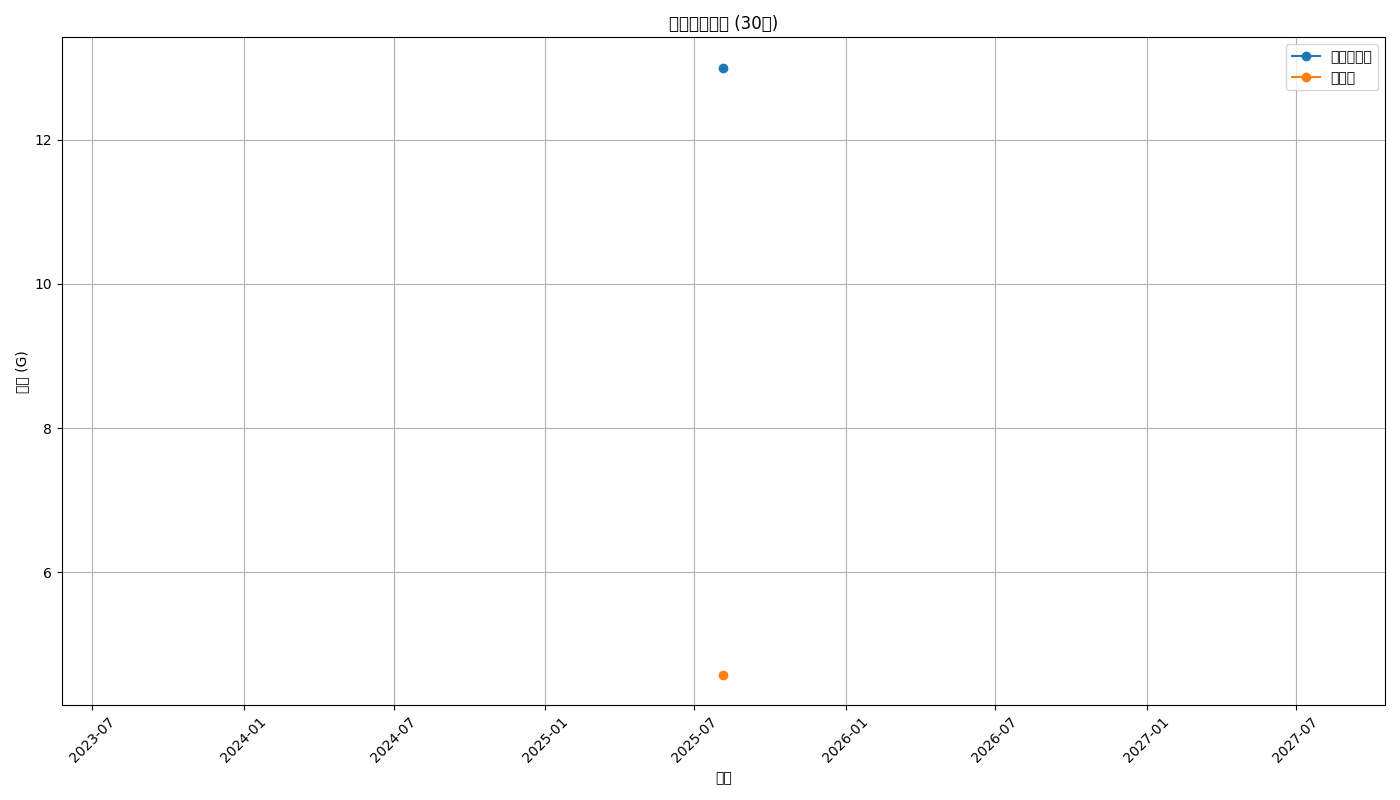
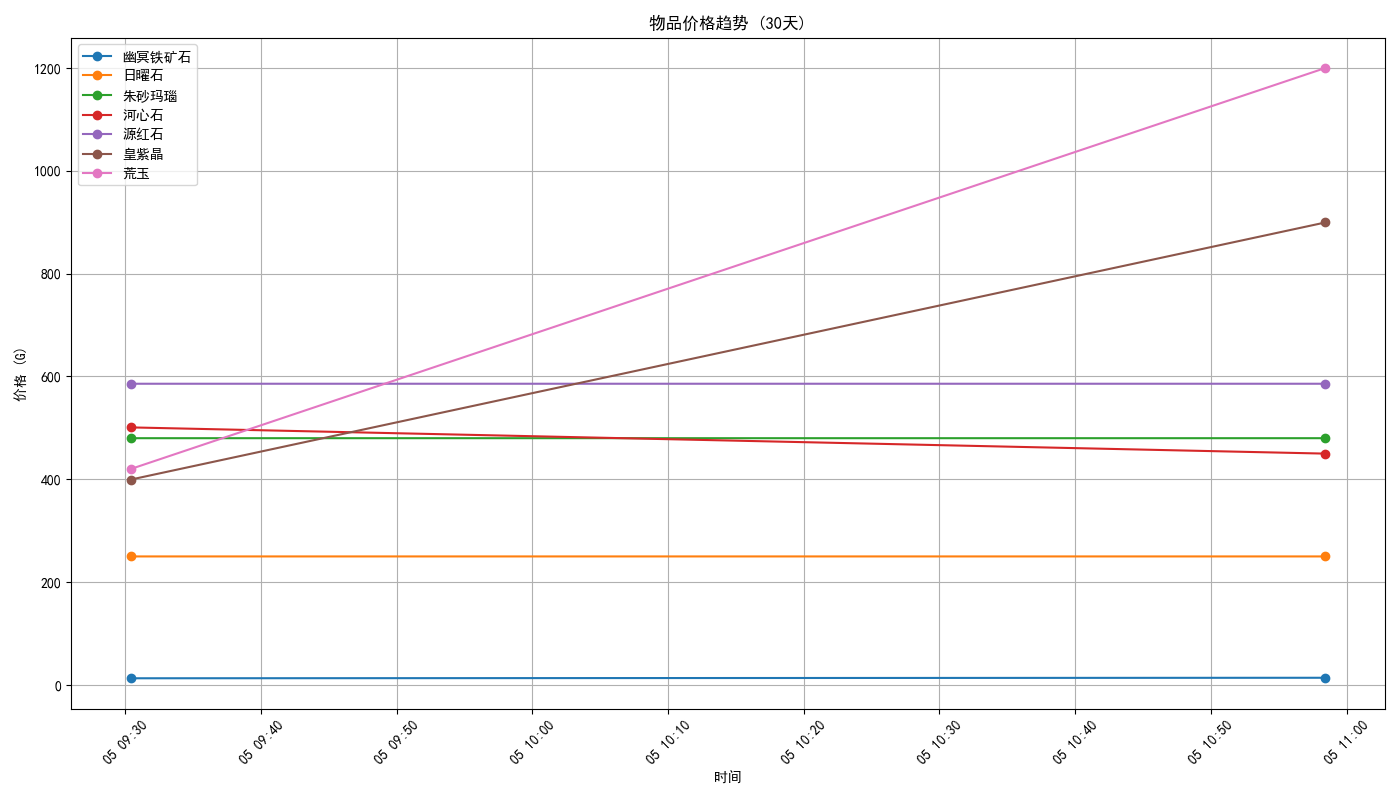
V1.5_20250805 1.修复数据图中文生成异常

diff --git a/chart_generator.py b/chart_generator.py
@@ -1,8 +1,62 @@
 import pandas as pd
+import numpy as np
+import matplotlib as mpl
 import matplotlib.pyplot as plt
+import matplotlib.font_manager as fm
 import os
 from datetime import datetime
-from config import HISTORY_DIR
+from config import HISTORY_DIR, BASE_DIR
+import warnings
+
+# 忽略警告
+warnings.filterwarnings("ignore", category=UserWarning)
+
+
+# 设置中文字体支持
+def set_chinese_font():
+    try:
+        # 尝试使用系统字体
+        plt.rcParams['font.sans-serif'] = ['SimHei', 'Microsoft YaHei', 'SimSun', 'Arial Unicode MS']
+        plt.rcParams['axes.unicode_minus'] = False  # 正确显示负号
+
+        # 检查字体是否可用
+        available_fonts = [f.name for f in fm.fontManager.ttflist]
+        chinese_fonts = ['SimHei', 'Microsoft YaHei', 'SimSun', 'Arial Unicode MS']
+
+        # 如果没有找到中文字体，尝试使用内置字体
+        if not any(font in available_fonts for font in chinese_fonts):
+            # 使用内置的WenQuanYi Micro Hei字体
+            plt.rcParams['font.sans-serif'] = ['WenQuanYi Micro Hei']
+
+            # 如果仍然不可用，尝试下载并注册字体
+            if 'WenQuanYi Micro Hei' not in available_fonts:
+                try:
+                    import os
+                    from urllib.request import urlretrieve
+
+                    # 下载字体文件
+                    font_url = "https://github.com/googlefonts/noto-cjk/raw/main/Sans/OTF/SimplifiedChinese/NotoSansCJKsc-Regular.otf"
+                    font_path = os.path.join(BASE_DIR, "NotoSansCJKsc-Regular.otf")
+
+                    if not os.path.exists(font_path):
+                        print("下载中文字体文件...")
+                        urlretrieve(font_url, font_path)
+
+                    # 注册字体
+                    font_prop = fm.FontProperties(fname=font_path)
+                    fm.fontManager.addfont(font_path)
+                    plt.rcParams['font.sans-serif'] = [font_prop.get_name()]
+                    print(f"已注册字体: {font_prop.get_name()}")
+                except Exception as e:
+                    print(f"字体下载失败: {e}")
+                    # 回退到默认字体
+                    plt.rcParams['font.sans-serif'] = ['DejaVu Sans']
+    except Exception as e:
+        print(f"设置中文字体失败: {e}")
+
+
+# 初始化字体设置
+set_chinese_font()
 
 
 def generate_price_chart(item_names, days=7, output_file="price_trend.png"):
@@ -16,19 +70,22 @@ def generate_price_chart(item_names, days=7, output_file="price_trend.png"):
             print(f"警告: 找不到 {item_name} 的历史数据")
             continue
 
-        df = pd.read_csv(item_file, parse_dates=['timestamp'])
+        try:
+            df = pd.read_csv(item_file, parse_dates=['timestamp'])
 
-        # 过滤最近N天的数据
-        cutoff_date = datetime.now() - pd.Timedelta(days=days)
-        df = df[df['timestamp'] >= cutoff_date]
+            # 过滤最近N天的数据
+            cutoff_date = datetime.now() - pd.Timedelta(days=days)
+            df = df[df['timestamp'] >= cutoff_date]
 
-        if df.empty:
-            print(f"警告: {item_name} 最近 {days} 天没有数据")
-            continue
+            if df.empty:
+                print(f"警告: {item_name} 最近 {days} 天没有数据")
+                continue
 
-        # 按时间排序并绘制
-        df = df.sort_values('timestamp')
-        plt.plot(df['timestamp'], df['price_g'], label=item_name, marker='o')
+            # 按时间排序并绘制
+            df = df.sort_values('timestamp')
+            plt.plot(df['timestamp'], df['price_g'], label=item_name, marker='o')
+        except Exception as e:
+            print(f"处理物品 {item_name} 时出错: {e}")
 
     plt.title(f"物品价格趋势 ({days}天)")
     plt.xlabel("时间")
@@ -53,19 +110,22 @@ def generate_availability_chart(item_names, days=7, output_file="availability_tr
             print(f"警告: 找不到 {item_name} 的历史数据")
             continue
 
-        df = pd.read_csv(item_file, parse_dates=['timestamp'])
+        try:
+            df = pd.read_csv(item_file, parse_dates=['timestamp'])
 
-        # 过滤最近N天的数据
-        cutoff_date = datetime.now() - pd.Timedelta(days=days)
-        df = df[df['timestamp'] >= cutoff_date]
+            # 过滤最近N天的数据
+            cutoff_date = datetime.now() - pd.Timedelta(days=days)
+            df = df[df['timestamp'] >= cutoff_date]
 
-        if df.empty:
-            print(f"警告: {item_name} 最近 {days} 天没有数据")
-            continue
+            if df.empty:
+                print(f"警告: {item_name} 最近 {days} 天没有数据")
+                continue
 
-        # 按时间排序并绘制
-        df = df.sort_values('timestamp')
-        plt.bar(df['timestamp'], df['available'], label=item_name, alpha=0.7)
+            # 按时间排序并绘制
+            df = df.sort_values('timestamp')
+            plt.bar(df['timestamp'], df['available'], label=item_name, alpha=0.7)
+        except Exception as e:
+            print(f"处理物品 {item_name} 时出错: {e}")
 
     plt.title(f"物品可购买数量趋势 ({days}天)")
     plt.xlabel("时间")
@@ -91,37 +151,54 @@ def generate_correlation_chart(item_name1, item_name2, days=30, output_file="pri
         print("错误: 缺少物品历史数据")
         return
 
-    df1 = pd.read_csv(item1_file, parse_dates=['timestamp'])
-    df2 = pd.read_csv(item2_file, parse_dates=['timestamp'])
+    try:
+        df1 = pd.read_csv(item1_file, parse_dates=['timestamp'])
+        df2 = pd.read_csv(item2_file, parse_dates=['timestamp'])
 
-    # 过滤最近N天的数据
-    cutoff_date = datetime.now() - pd.Timedelta(days=days)
-    df1 = df1[df1['timestamp'] >= cutoff_date]
-    df2 = df2[df2['timestamp'] >= cutoff_date]
+        # 过滤最近N天的数据
+        cutoff_date = datetime.now() - pd.Timedelta(days=days)
+        df1 = df1[df1['timestamp'] >= cutoff_date]
+        df2 = df2[df2['timestamp'] >= cutoff_date]
 
-    if df1.empty or df2.empty:
-        print("错误: 数据不足")
-        return
+        if df1.empty or df2.empty:
+            print("错误: 数据不足")
+            return
 
-    # 合并数据集
-    merged_df = pd.merge(df1, df2, on='timestamp', suffixes=(f'_{item_name1}', f'_{item_name2}'))
+        # 合并数据集
+        merged_df = pd.merge(df1, df2, on='timestamp', suffixes=(f'_{item_name1}', f'_{item_name2}'))
 
-    # 计算相关性
-    correlation = merged_df[f'price_g_{item_name1}'].corr(merged_df[f'price_g_{item_name2}'])
+        # 计算相关性
+        correlation = merged_df[f'price_g_{item_name1}'].corr(merged_df[f'price_g_{item_name2}'])
 
-    # 绘制散点图
-    plt.scatter(merged_df[f'price_g_{item_name1}'], merged_df[f'price_g_{item_name2}'], alpha=0.6)
-    plt.title(f"{item_name1} 与 {item_name2} 价格相关性 (r={correlation:.2f})")
-    plt.xlabel(f"{item_name1} 价格 (G)")
-    plt.ylabel(f"{item_name2} 价格 (G)")
-    plt.grid(True)
+        # 绘制散点图
+        plt.scatter(merged_df[f'price_g_{item_name1}'], merged_df[f'price_g_{item_name2}'], alpha=0.6)
+        plt.title(f"{item_name1} 与 {item_name2} 价格相关性 (r={correlation:.2f})")
+        plt.xlabel(f"{item_name1} 价格 (G)")
+        plt.ylabel(f"{item_name2} 价格 (G)")
+        plt.grid(True)
 
-    # 添加趋势线
-    z = np.polyfit(merged_df[f'price_g_{item_name1}'], merged_df[f'price_g_{item_name2}'], 1)
-    p = np.poly1d(z)
-    plt.plot(merged_df[f'price_g_{item_name1}'], p(merged_df[f'price_g_{item_name1}']), "r--")
+        # 添加趋势线
+        z = np.polyfit(merged_df[f'price_g_{item_name1}'], merged_df[f'price_g_{item_name2}'], 1)
+        p = np.poly1d(z)
+        plt.plot(merged_df[f'price_g_{item_name1}'], p(merged_df[f'price_g_{item_name1}']), "r--")
 
-    plt.tight_layout()
-    plt.savefig(output_file)
-    print(f"价格相关性图已保存至: {output_file}")
+        plt.tight_layout()
+        plt.savefig(output_file)
+        print(f"价格相关性图已保存至: {output_file}")
+        plt.close()
+    except Exception as e:
+        print(f"生成相关性图时出错: {e}")
+
+def test_font_support():
+    """测试中文字体支持"""
+    plt.figure(figsize=(10, 3))
+    plt.text(0.5, 0.5, "中文测试: 幽冥铁矿石 铜矿石 孔雀石",
+             fontsize=20, ha='center')
+    plt.axis('off')
+    plt.savefig("chinese_font_test.png")
     plt.close()
+    print("字体测试图已保存至: chinese_font_test.png")
+
+# 在文件末尾调用测试
+if __name__ == "__main__":
+    test_font_support()

diff --git a/config.py b/config.py
@@ -1,7 +1,9 @@
 import os
 
-# 基础配置
+# 基础目录
 BASE_DIR = os.path.dirname(os.path.abspath(__file__))
+
+# 其他配置保持不变
 DATA_DIR = os.path.join(BASE_DIR, "data")
 HISTORY_DIR = os.path.join(DATA_DIR, "market_history")
 REPORTS_DIR = os.path.join(DATA_DIR, "reports")

diff --git a/README.md b/README.md
@@ -20,6 +20,9 @@ V1.4_20250805
 1.记录原材料数据及波动
 2.分析模块matlab包待修复导入
 
+V1.5_20250805
+1.修复数据图中文生成异常
+
 =========================
 待更新：
 1.记录原材料数据及波动    //已完成
